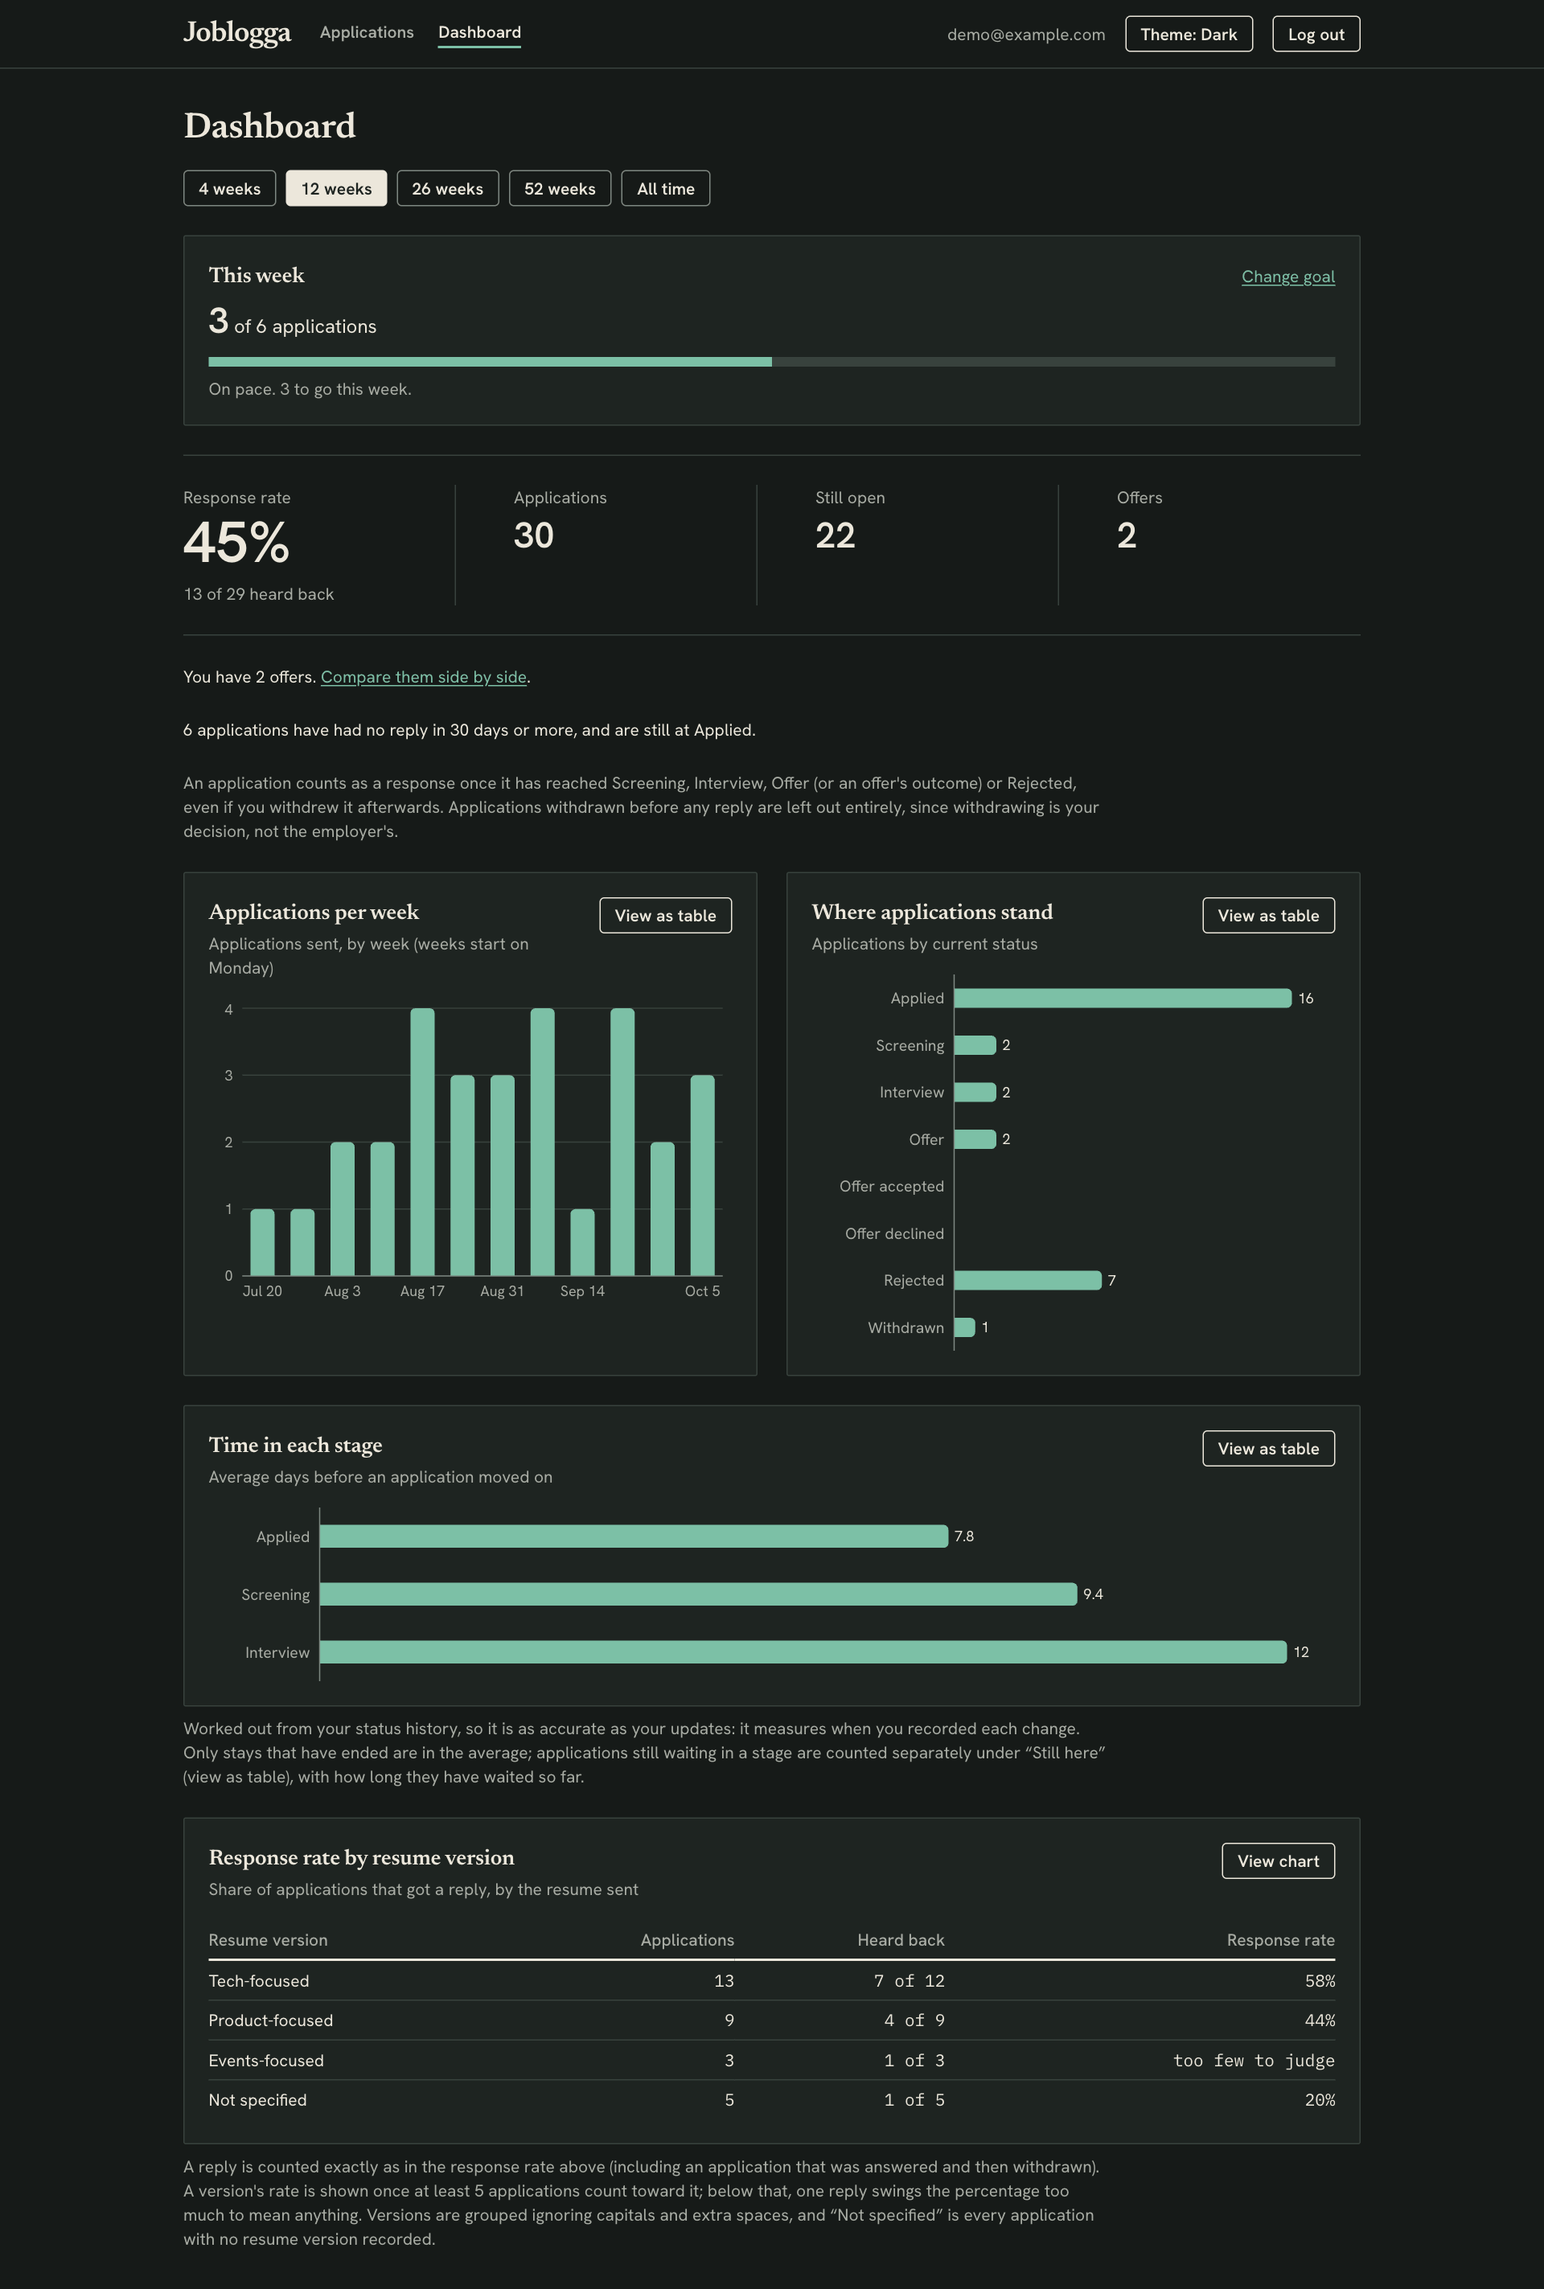
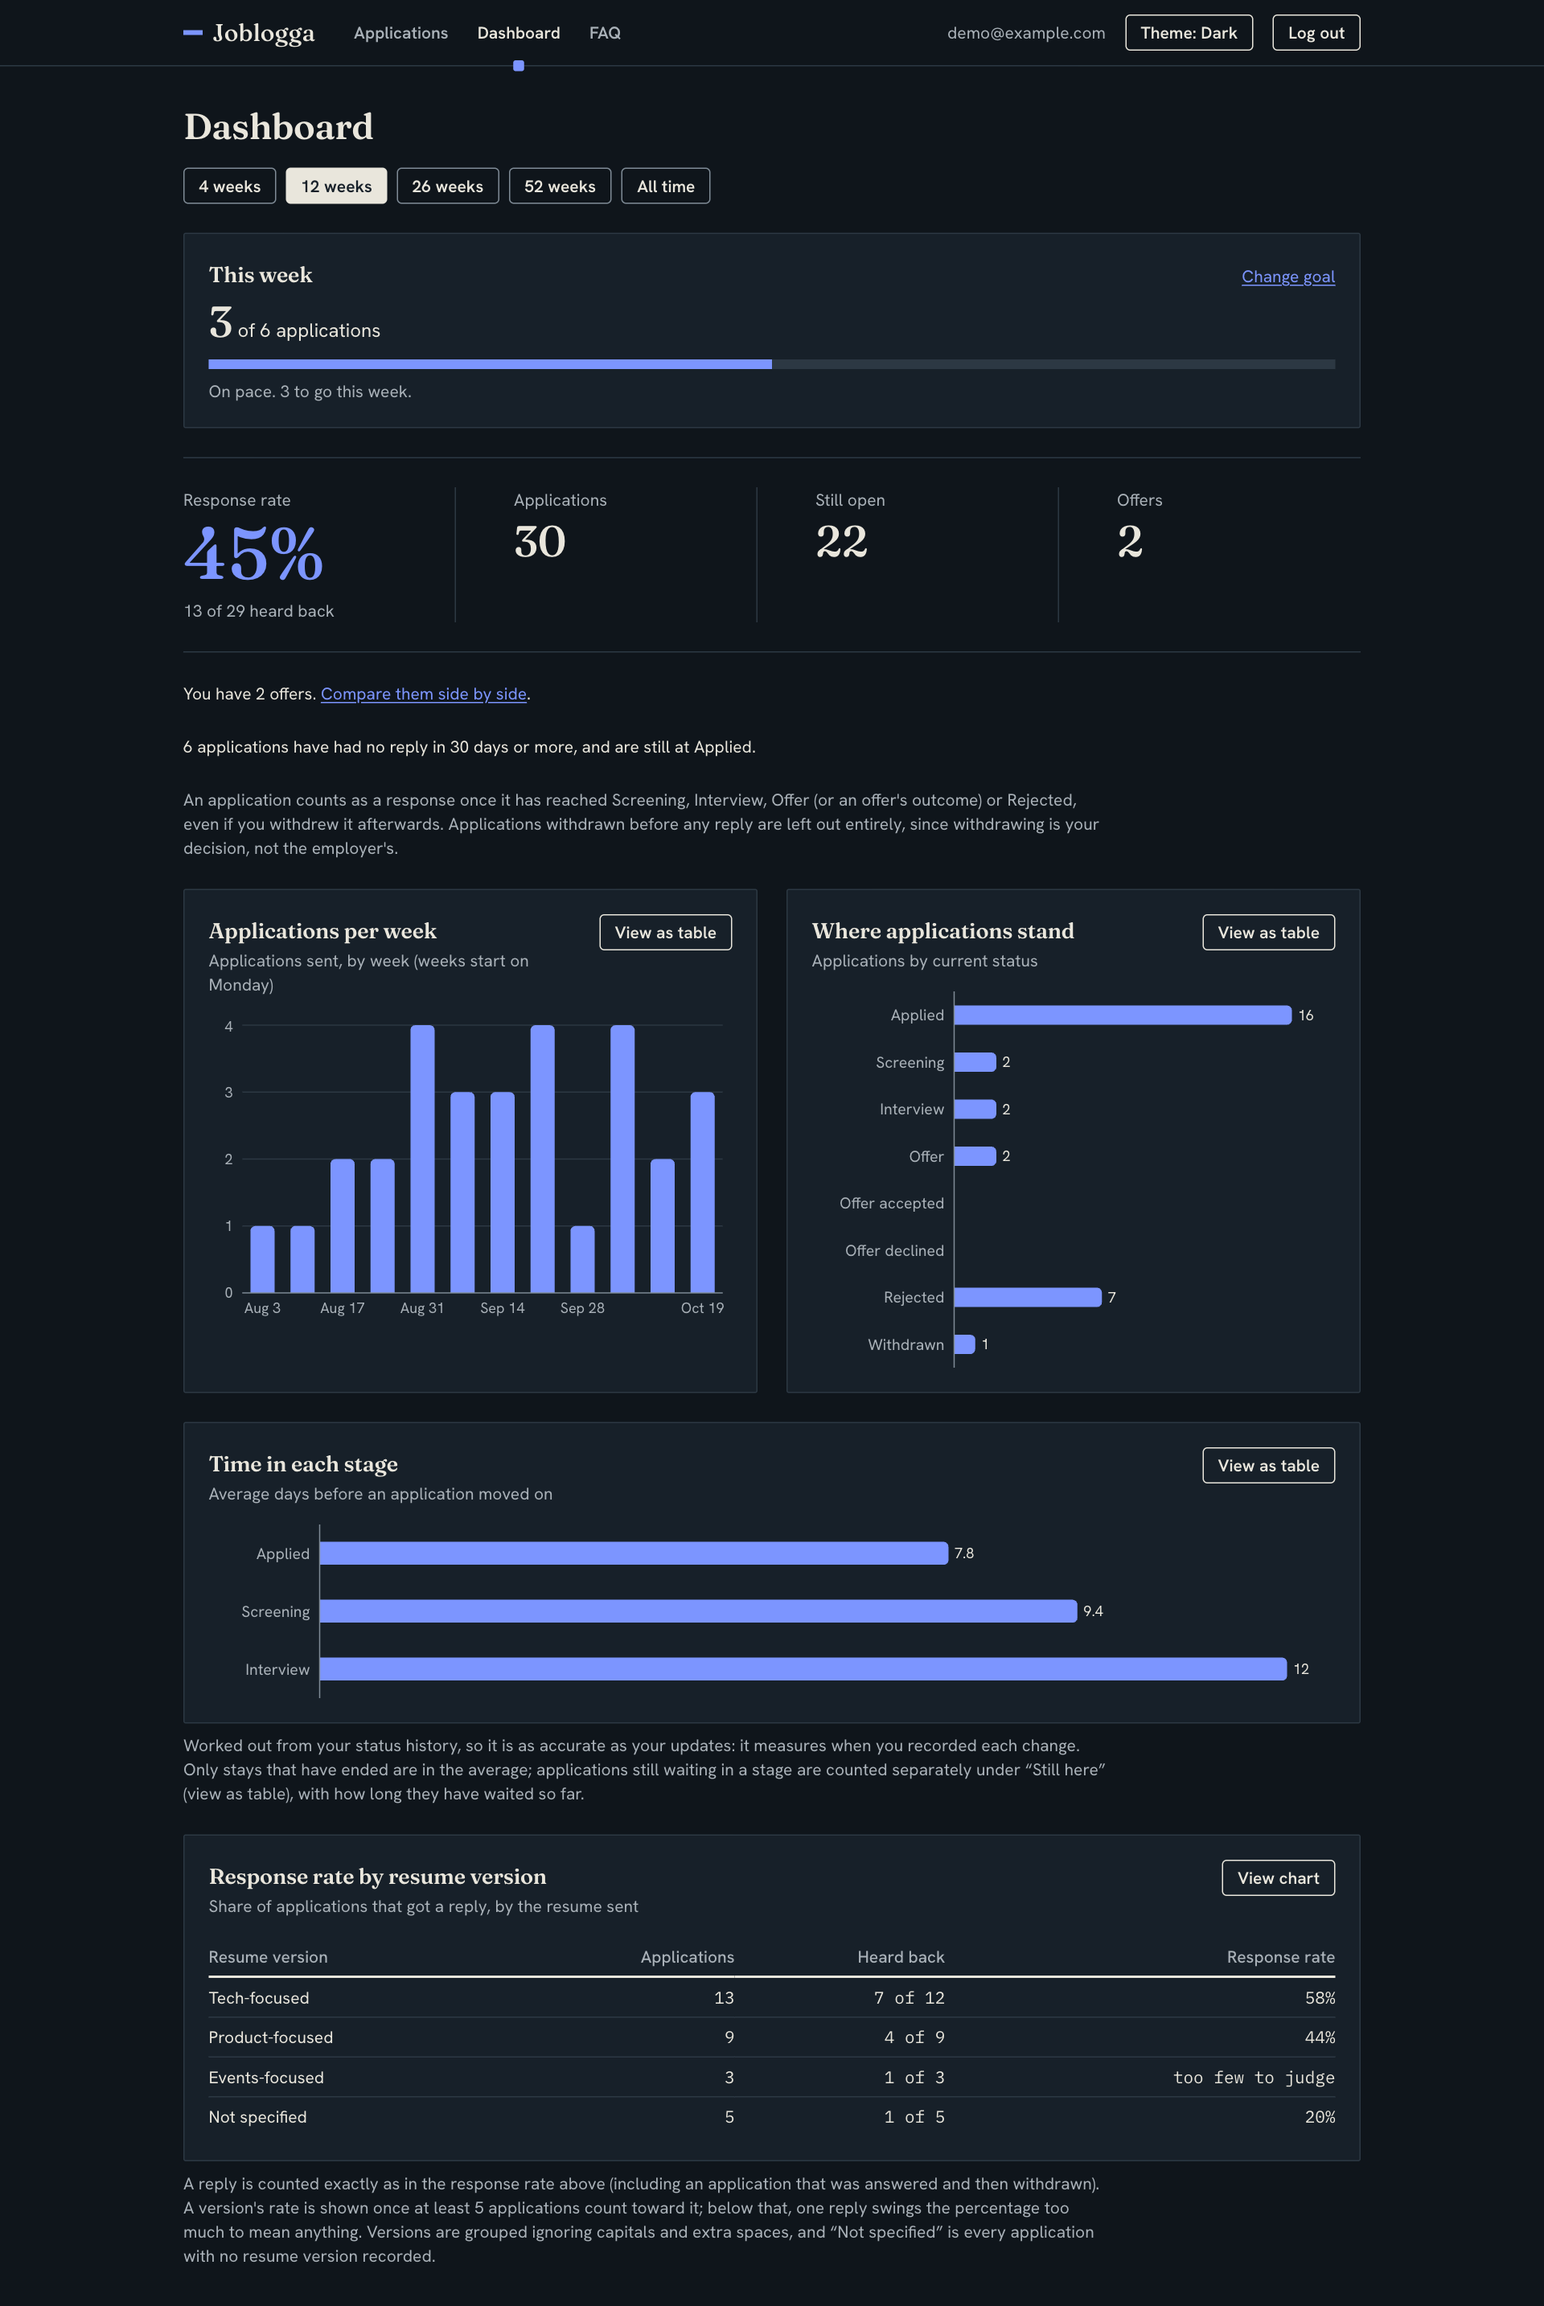
WIP release: docs, versions, screenshots

diff --git a/backend/app/__init__.py b/backend/app/__init__.py
@@ -1,3 +1,3 @@
 # The single place the backend's version is defined (the API reports it in its OpenAPI
 # document at /openapi.json). Keep it in step with frontend/package.json: a test checks.
-__version__ = "0.1.4"
+__version__ = "0.2.0"

diff --git a/README.md b/README.md
@@ -4,11 +4,11 @@ A multi-user job application tracker: log applications, move them through a stat
 
 **Live at [joblogga.dolocozy.com](https://joblogga.dolocozy.com)**
 
-![The Joblogga applications list split down the middle: the left half in the light theme, the right half in the dark theme. A ruled ledger with a stage meter per status, tags, and an overdue follow-up highlighted](docs/screenshots/hero-light-dark.png)
+![The Joblogga applications list split down the middle: the left half in the light theme, the right half in the dark theme. A route per application on a white page, with the overdue follow-up in red](docs/screenshots/hero-light-dark.png)
 
 *Joblogga has a light and a dark theme. It follows your device's setting by default, and a Theme button on every page overrides it. The picture above is one screenshot, light on the left and dark on the right.*
 
-> **Status: v0.1.4, feature-complete for tracking job applications.** Accounts with email verification, password reset and account deletion, application tracking with status history, saved jobs, interview rounds, contacts, tags and archiving, real country and city locations, salary currency, duplicate warnings, CSV export and import, opt-in follow-up reminder emails, search and filters, a weekly goal, a dashboard with response rate, time in each stage and response rate by resume version, an offer comparison, a Kanban board, a light and a dark theme, a public FAQ and login rate limiting are all built, tested and deployed. See [Known limitations](#known-limitations).
+> **Status: v0.2.0, feature-complete for tracking job applications.** Accounts with email verification, password reset and account deletion, application tracking with status history, saved jobs, interview rounds, contacts, tags and archiving, real country and city locations, salary currency, duplicate warnings, CSV export and import, opt-in follow-up reminder emails, search and filters, a weekly goal, a dashboard with response rate, time in each stage and response rate by resume version, an offer comparison, a Kanban board, a light and a dark theme, a public FAQ and login rate limiting are all built, tested and deployed. See [Known limitations](#known-limitations).
 
 *Every screenshot here uses a demo account with fictional data.*
 
@@ -20,7 +20,7 @@ This project is built with [Claude Code](https://claude.com/claude-code) as a de
 
 ## Tech stack
 
-- **Frontend:** React + TypeScript, Vite, Tailwind CSS, Recharts, `@dnd-kit`, self-hosted fonts (Newsreader, Hanken Grotesk, IBM Plex Mono)
+- **Frontend:** React + TypeScript, Vite, Tailwind CSS, Recharts, `@dnd-kit`, self-hosted fonts (Fraunces, Hanken Grotesk, IBM Plex Mono)
 - **Backend:** Python, FastAPI
 - **Database:** SQLAlchemy 2.0 with Alembic migrations; PostgreSQL (Neon) in production, SQLite for local development
 - **Auth:** JWT (PyJWT) + bcrypt, with password reset by email ([Resend](https://resend.com))
@@ -73,11 +73,11 @@ A drop moves the card immediately and puts it back with an error if the server r
 
 Each picture below is shown in your GitHub theme: the light version if GitHub is light, the dark one if it is dark (where a viewer does not support that, the light one is shown). They come from a demo account with made-up companies, seeded by [`docs/screenshots/seed_demo.py`](docs/screenshots/seed_demo.py), and can be retaken after a release by following the [short note beside it](docs/screenshots/README.md).
 
-**Applications list.** A ruled ledger: the stage reached, the place (a city name used in several states, like Springfield or Portland, is told apart by its state), tags, and follow-ups that are due or overdue rise to the top.
+**Applications list.** Each application is a route with four stops, so you see where it stands (and, for a closed one, how far it got) at a glance: the place (a city name used in several states, like Springfield or Portland, is told apart by its state), tags, and follow-ups that are due or overdue rise to the top.
 
 <picture>
   <source media="(prefers-color-scheme: dark)" srcset="docs/screenshots/applications-list-dark.png">
-  <img alt="The applications list: a follow-ups panel with one overdue date highlighted, search and filter controls, and ledger rows each with a stage meter, status, applied date and tags" src="docs/screenshots/applications-list-light.png">
+  <img alt="The applications list: a follow-ups panel with one overdue date in red, search and filter controls, and a row per application with a route of four stops, a status, the applied date and tags" src="docs/screenshots/applications-list-light.png">
 </picture>
 
 **Kanban board.** Drag a card to change its status (mouse, touch or keyboard). The board is a strip of columns that scrolls sideways; six are shown here.
@@ -101,17 +101,17 @@ Each picture below is shown in your GitHub theme: the light version if GitHub is
   <img alt="Two offers compared in columns: a USD offer and a EUR offer, with salary, work mode, location, interview rounds, dates, tags and notes, under a note that the currencies differ" src="docs/screenshots/offers-light.png">
 </picture>
 
-**Landing page.** What it is and who it is for, with the login and a sample logbook page. It looks the same in both themes apart from colour, so there is one picture.
+**Landing page.** What it is and who it is for, with the login and a sample page of routes. It looks the same in both themes apart from colour, so there is one picture.
 
-![The landing page: a headline, a short description, the login form, and a sample page of the logbook with made-up companies](docs/screenshots/landing.png)
+![The landing page: a headline, a short description, the login form, and a sample page of routes with made-up companies](docs/screenshots/landing.png)
 
 ## Design
 
-The interface is built around lines: every application is a route with four stops (Applied, Screening, Interview, Offer). It is a plain white page with near-black ink, a handful of saturated line colors (cobalt, tangerine, signal green, plum) taken from a transit map, and brick red kept for trouble such as overdue follow-ups. Cobalt is also the color of actions and links. Titles are set in Fraunces, dates and numbers in a monospace so columns line up. The header's bottom rule is the line, and a filled square stop marks the current page. The redesign is landing in phases; the applications list and the remaining screens move over in the following ones.
+The interface is built around lines: every application is a route with four stops (Applied, Screening, Interview, Offer). It is a plain white page with near-black ink, a handful of saturated line colors (cobalt, tangerine, signal green, plum) taken from a transit map, and brick red kept for trouble such as overdue follow-ups. Cobalt is also the color of actions and links. Titles are set in Fraunces, dates and numbers in a monospace so columns line up. The header's bottom rule is the line, and a filled square stop marks the current page. The list, the detail page and the forms, the board, the dashboard and the landing page all use it: a route per application, the status history as a vertical route, and the form as three stops on a line. Each application keeps one line color, picked from its id.
 
 ### Dark mode
 
-A dark theme (the same logbook by lamplight) follows the device's light/dark setting by default and keeps following it, for example at sunset. A **Theme** button in the header of every page, and on the landing and sign-in pages, steps through System, Light and Dark and back round to System, so there is always a way back to following the device; the choice is saved in this browser's `localStorage` only (it is a display preference, not account data, so there is no backend field and it does not follow you between devices). It covers the whole app, the dashboard charts included.
+A dark theme (the same lines at night) follows the device's light/dark setting by default and keeps following it, for example at sunset. A **Theme** button in the header of every page, and on the landing and sign-in pages, steps through System, Light and Dark and back round to System, so there is always a way back to following the device; the choice is saved in this browser's `localStorage` only (it is a display preference, not account data, so there is no backend field and it does not follow you between devices). It covers the whole app, the dashboard charts included.
 
 How it works, and why it is not a pile of `dark:` variants: every colour in the app already comes from a handful of design tokens (`frontend/src/index.css`), and the charts read the same tokens, so dark mode is a second set of values for those tokens under `html.dark`, set by `frontend/src/theme.ts`. Nothing can be missed on one screen, because no screen has its own colours. The `dark:` variant is still enabled for anything that ever needs one. A small script in `index.html` applies the saved or system choice before the page paints so a dark-mode reader never sees a flash of light; a test runs that script against the app's own logic so the two cannot drift. The dark palette keeps the light one's standard (text 4.5:1 or better, control borders 3:1), checked by a test that reads the stylesheet, which also fails if a colour is added without a dark value or a chart hard-codes one. Line colors are graphics, so they are checked at 3:1.
 
@@ -127,7 +127,7 @@ The rules that keep it from looking generic are enforced by a test (`frontend/sr
 | `/verify-email` | Where the verification link in the signup email lands (open to everyone) |
 | `/faq` | Frequently asked questions, in plain language (open to everyone, logged in or not) |
 | `/account` | Who you are, email reminders, the weekly goal, CSV export and import, and deleting your account |
-| `/applications`, `/applications/new`, `/applications/:id` | Your applications, as a ledger list, a Kanban board (`?view=board`), or the jobs you have saved but not applied to (`?view=saved`) |
+| `/applications`, `/applications/new`, `/applications/:id` | Your applications, as a list of routes, a Kanban board (`?view=board`), or the jobs you have saved but not applied to (`?view=saved`) |
 | `/dashboard` | Response rate and charts |
 | `/offers` | Your offers side by side (linked from the dashboard once you have two) |
 

diff --git a/CHANGELOG.md b/CHANGELOG.md
@@ -2,6 +2,26 @@
 
 Versions follow [semantic versioning](https://semver.org). Details of the reasoning behind each change are in the README and in `docs/`.
 
+## v0.2.0
+
+### Changed
+
+- **A new look, built around lines.** Every application is now drawn as a route with four stops (Applied, Screening, Interview, Offer): a solid line to where it is, a dashed one beyond it, and a larger stop for now. The applications list, the board cards and the detail page all show it, and a closed application keeps the stop it reached (a rejected one ends in a brick-red empty square). The status dropdown stays under the route, so changing a status is still one click and works from the keyboard. Each application has one line color (cobalt, tangerine, signal green or plum), picked from its id so it never changes.
+- **White page, new palette.** The warm paper background is now plain white. Cobalt is the color of actions and links, brick red is kept for trouble (overdue, rejected, delete), and the yellow highlight is gone: an overdue follow-up is brick-red text with the word "overdue". There is a new night palette for dark mode. Every text pairing is still checked at 4.5:1 and the line colors at 3:1, in both themes, by a test.
+- **New type.** Titles and headline figures are set in Fraunces, which replaces Newsreader. Hanken Grotesk and IBM Plex Mono stay.
+- **A route header.** The header's bottom rule is the line, and a filled square stop marks the current page.
+- **Detail page and forms.** The status history is a vertical route, newest on top. The add and edit form is three stops on a line (The job, Where it stands, Labels and notes); the fields, validation and inline messages are the same, with status, dates and resume now sitting together.
+- **Dashboard and board.** Headline figures are set large in the title serif, the response rate in cobalt. Board cards carry their route. Charts stay one color, since the line colors identify applications, not stages.
+- **Landing page.** Three decorative routes draw in under the intro (not at all for people who ask for less motion), the sample page uses the route column, and the four stages are stops on a line.
+
+### Added
+
+- Applications carry a `furthest_stage` (0 to 4), worked out from their status history, so a closed application can show how far it got. It is loaded in one extra query for the list and is not stored.
+
+### Not changed
+
+- Navigation names (Applications, Dashboard, FAQ), URLs, and every feature and rule from v0.1.4. There are no database migrations.
+
 ## v0.1.4
 
 ### Added
